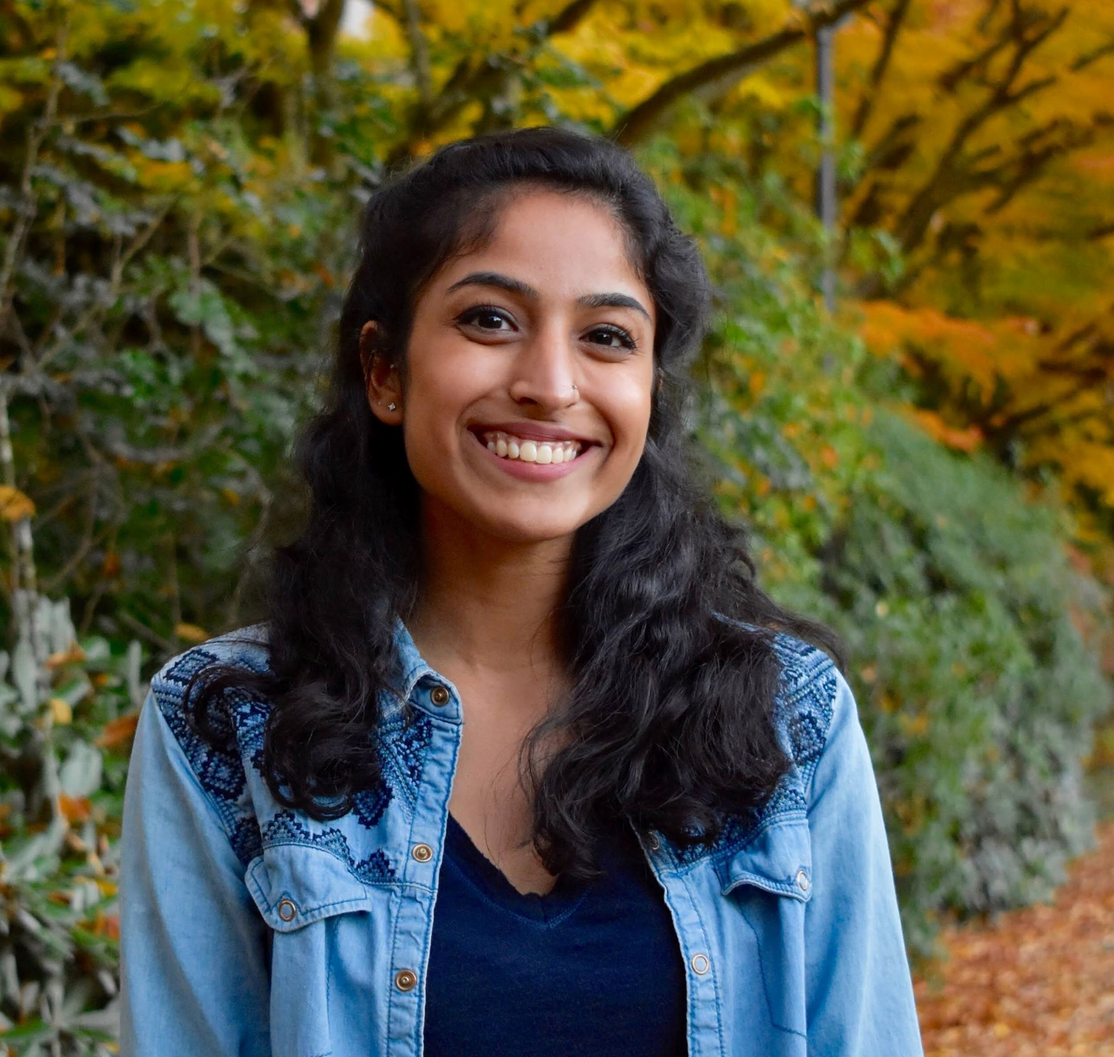
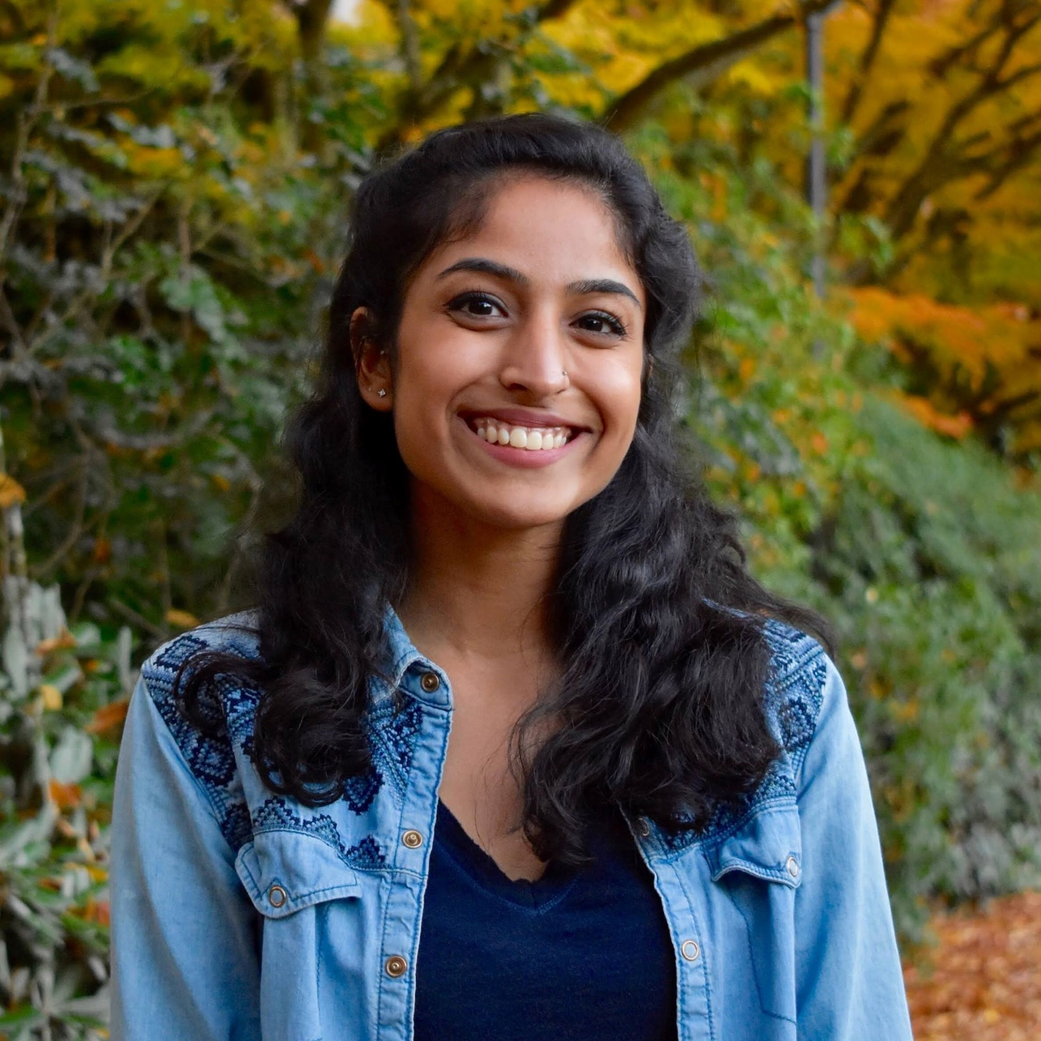
fixed image sizing and added footer note

diff --git a/index.html b/index.html
@@ -30,26 +30,20 @@
                 <img class="img-fluid" align="center" src="images/Graphic-1.png" alt="Graphic of the General Process">
             </div>
             <div class="col-lg-8 my-auto" id="proj-descr">
-                <p id="proj-descr-text">The Home Project, sponsored by Pyramid Communications, is a collaborative effort across
-                    organizations,
-                    individuals, and businesses. The aim of the project is to share information and resources in the
-                    fight
-                    to end homelessness in King County. Our team is creating a tool for this project that allows people
-                    to
-                    discover homelessness related events in King County. Organizations will be able to post new events
-                    to our
-                    tool and recruit attendees, volunteers, and donors for their events. This will also serve as a
-                    resource
-                    for people to learn about the organizations that are working to end homelessness in King County.</p>
+                <p id="proj-descr-text">Homelessness in King County is a growing issue that many organizations are working 
+                    to solve, however, there is a lack of collaboration across organizations and the community. The Home 
+                    Project, sponsored by Pyramid Communications, is an effort to share information and resources in the fight 
+                    to end homelessness. Our team is building a tool that allows people to discover homelessness related 
+                    events in King County. Organizations will be able to post new events and recruit attendees, volunteers, 
+                    and donors. This will also serve as a resource for people to learn about organizations involved in 
+                    ending homelessness in King County.</p>
             </div>
         </div>
     </div>
     <div class="mb-4 mx-auto text-center p-3">
         <h2>Our Team</h2>
     </div>
-
-    <div>
-
+<div>
         <div class="row mx-auto">
             <div class="col-lg-3 col-sm-6 text-center mb-4">
                 <img class="rounded-circle img-fluid d-block mx-auto w-75" src="images/Shannon04-IMG_9594.jpg" alt="Portrait of Shannon Gatta">
@@ -73,28 +67,26 @@
                     food.</p>
             </div>
             <div class="col-lg-3 col-sm-6 text-center mb-4">
-                <img class="rounded-circle img-fluid d-block mx-auto w-75" src="images/IMG_5637 copy.jpeg" alt="Portrait of Emma Ropes">
-                <h3>Emma Ropes
-
-                </h3>
-                <h3><small>Web Developer</small></h3>
-                <p id="bio">Emma is a Senior at UW studying Informatics with a focus in Software Engineering. She is
-                    from Tacoma, WA and will be working for Accenture as
-                    an Application Engineering Analyst when she graduates. She has a love for foreign languages and
-                    traveling to far off places.
-                </p>
-            </div>
+                    <img class="rounded-circle img-fluid d-block mx-auto w-75" src="images/IMG_5637 copy.jpeg" alt="Portrait of Emma Ropes">
+                    <h3>Emma Ropes</h3>
+                    <h3><small>Web Developer</small></h3>
+                    <p id="bio">Emma is a Senior at UW studying Informatics with a focus in Software Engineering. She is
+                        from Tacoma, WA and will be working for Accenture as
+                        an Application Engineering Analyst when she graduates. She has a love for foreign languages and
+                        traveling to far off places.
+                    </p>
+                </div>
             <div class="col-lg-3 col-sm-6 text-center mb-4">
-                <img class="rounded-circle img-fluid d-block mx-auto w-75" src="images/51162296_349683048961772_2126776657183244288_n.jpg"
-                    alt="Portrait of Nicole Bohra">
-                <h3>Nicole Bohra
+                    <img class="rounded-circle img-fluid d-block mx-auto w-75" src="images/51162296_349683048961772_2126776657183244288_n.jpg"
+                        alt="Portrait of Nicole Bohra">
+                    <h3>Nicole Bohra</h3>
+                    <h3><small>Data Scientist</small></h3>
+                    <p id="bio">Nicole is a Senior at UW studying Informatics with a focus in Data Science. She is from
+                        Bothell, Washington and will be working at Avanade as
+                        a Business Analyst after graduating. She loves dogs, skiing, and eating chocolate!</p>
+                </div>
 
-                </h3>
-                <h3><small>Data Scientist</small></h3>
-                <p id="bio">Nicole is a Senior at UW studying Informatics with a focus in Data Science. She is from
-                    Bothell, Washington and will be working at Avanade as
-                    a Business Analyst after graduating. She loves dogs, skiing, and eating chocolate!</p>
-            </div>
+
         </div>
         <div class="row mx-auto">
             <div class="col-lg-12 text-center mb-4">
@@ -105,25 +97,30 @@
     <footer class="page-footer font-small cyan darken-3">
         <div class="container-fluid text-center text-md-left cyan darken-3">
             <div class="row">
-                <div class="col-md-6 mt-md-0 mt-3">
-
-                    <h5 class="text-uppercase">Contact Us</h5>
-                    <!-- <ul> -->
-                    <!-- <li> -->
-                    <p>Shannon: <a class="email" href="mailto: sgatta@uw.edu">sgatta@uw.edu</a></p>
-                    <!-- </li> -->
-                    <!-- <li> -->
-                    <p>Esha: <a class="email" href="mailto: moree@uw.edu">moree@uw.edu</a></p>
-                    <!-- </li> -->
-                    <!-- <li> -->
-                    <p>Emma: <a class="email" href="mailto: eropes@uw.edu">eropes@uw.edu</a></p>
-                    <!-- </li> -->
-                    <!-- <li> -->
-                    <p>Nicole: <a class="email" href="mailto: bohran@uw.du">bohran@uw.edu</a></p>
-                    <!-- </li> -->
-                    <!-- </ul> -->
-
+                
+                <div class="col-md-6 my-auto p-4">
+                        <h5 class="text-uppercase">Contact Us</h5>
+                        <h4 id="footer-text">Are you an organization or individual looking to get involved with our user research or learn more about the project? 
+                                Please feel free to send us an email and find out how you could help us with this amazing project!</h4>
                 </div>
+                <div class="col-md-6 my-auto">
+                        
+                        <!-- <ul> -->
+                        <!-- <li> -->
+                        <p>Shannon: <a class="email" href="mailto: sgatta@uw.edu">sgatta@uw.edu</a></p>
+                        <!-- </li> -->
+                        <!-- <li> -->
+                        <p>Esha: <a class="email" href="mailto: moree@uw.edu">moree@uw.edu</a></p>
+                        <!-- </li> -->
+                        <!-- <li> -->
+                        <p>Emma: <a class="email" href="mailto: eropes@uw.edu">eropes@uw.edu</a></p>
+                        <!-- </li> -->
+                        <!-- <li> -->
+                        <p>Nicole: <a class="email" href="mailto: bohran@uw.du">bohran@uw.edu</a></p>
+                        <!-- </li> -->
+                        <!-- </ul> -->
+    
+                    </div>
             </div>
         </div>
     </footer>

diff --git a/css/styles.css b/css/styles.css
@@ -88,3 +88,8 @@ ul {
         font-size: 24px;
     }
 }
+
+#footer-text {
+    font-weight: 200;
+    font-size: 20px;
+}
